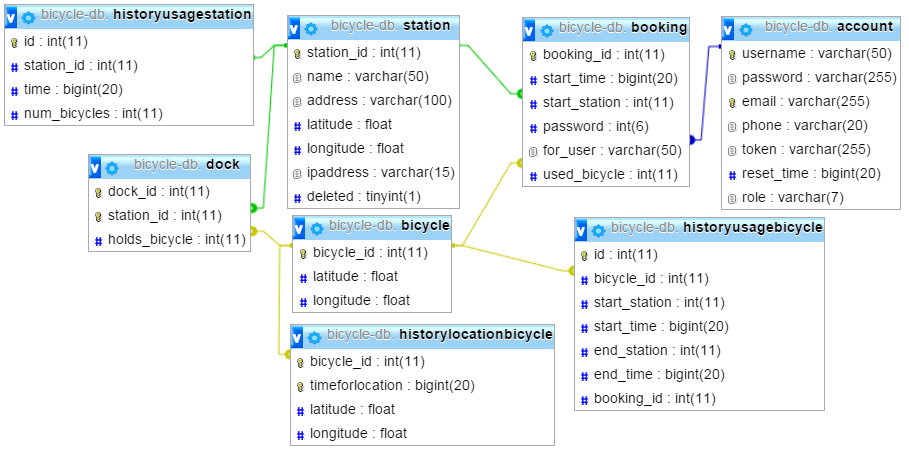
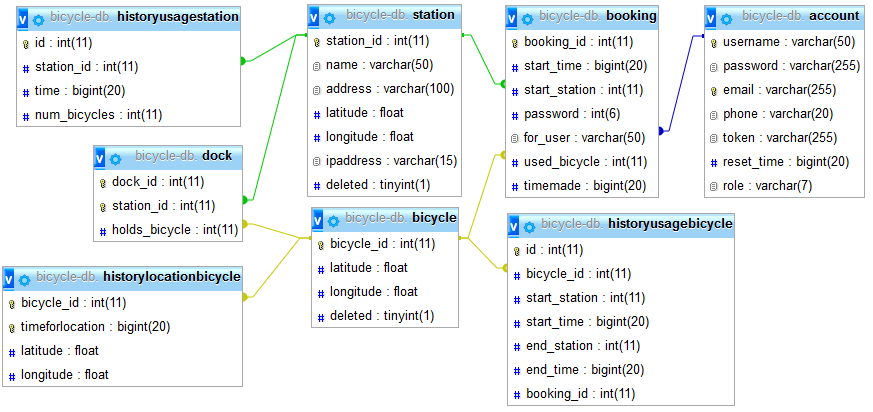
Update DB tables and write about mysql and deleted flag.

diff --git a/Report/Src/Implementation/Database.tex b/Report/Src/Implementation/Database.tex
@@ -1,6 +1,6 @@
 \section{Database}
 To support the necessary information storage, a database is implemented in accordance with the ER diagram described in \secref{sec:ERdiagram}.
-The implementation of the ER diagram leads to the database schema that can be seen in \figref{fig:Database-tables}, however, there is more than just what the ER diagram describes.
+The implementation of the ER diagram leads to the database schema that can be seen in \figref{fig:Database-tables}, however, there is more than what the ER diagram describes.
 In this figure, the connections between the tables represents foreign key constraints.
 
 \begin{figure}[h]
@@ -9,8 +9,12 @@ In this figure, the connections between the tables represents foreign key constr
 	\caption{Database tables}\label{fig:Database-tables}
 \end{figure}
 
-The additional tables(historyusagestation, historyusagebicycle and historylocationbicycle) are added to store the information needed for the features described in \secref{sec:designAdminTools} and which implementation is discussed in \secref{sec:impAdminTools}.
+The additional tables (historyusagestation, historyusagebicycle, and historylocationbicycle) are added to store the information needed for the features described in \secref{sec:designAdminTools} and which implementation is discussed in \secref{sec:impAdminTools}.
 The three additional tables serves as a log, in order to store information about usage of the system, to be used by the administration part of the system to analyse on the usage of the system.
+
+Because of how logging is used is different from the general usage of the system because it has to use all historical data.
+That means that for the purposes of the tables mentioned above it is important that for the station and bicycle tables that rows are not deleted, but rather just flagged as deleted, why is the cause of the deleted attribute in those tables. 
+For regular use of the system it changes little but administratively it allows for using historical data.
 
 In the translation from the ER diagram to the schema presented, the relations between the various entities could in all cases be represented as an attribute on one of the involved entities.
 This attribute is a foreign key.
@@ -19,4 +23,5 @@ This was all that was needed to convert the ER diagram into the database schema,
 When the admin features was added into the database, in addition to adding three new tables to contain their information.
 The admin features also required addition of additional attributes to some of the already existing tables, an example of this being \textit{role} attribute on the account table, used to distinguish regular users from the ones with admin privileges.
 
-\fxwarning{der skal skrives til: ekstra attributes, naevn mysql}
+This was implemented in MySQL, primarily because it was packaged with the webserver that we used to develop the system with.
+There is no reason why MySQL was chosen instead of competing DBMS such as postgresql or MSSQL other than convenience, and little reason why the schema could not be adapted to work on others.
